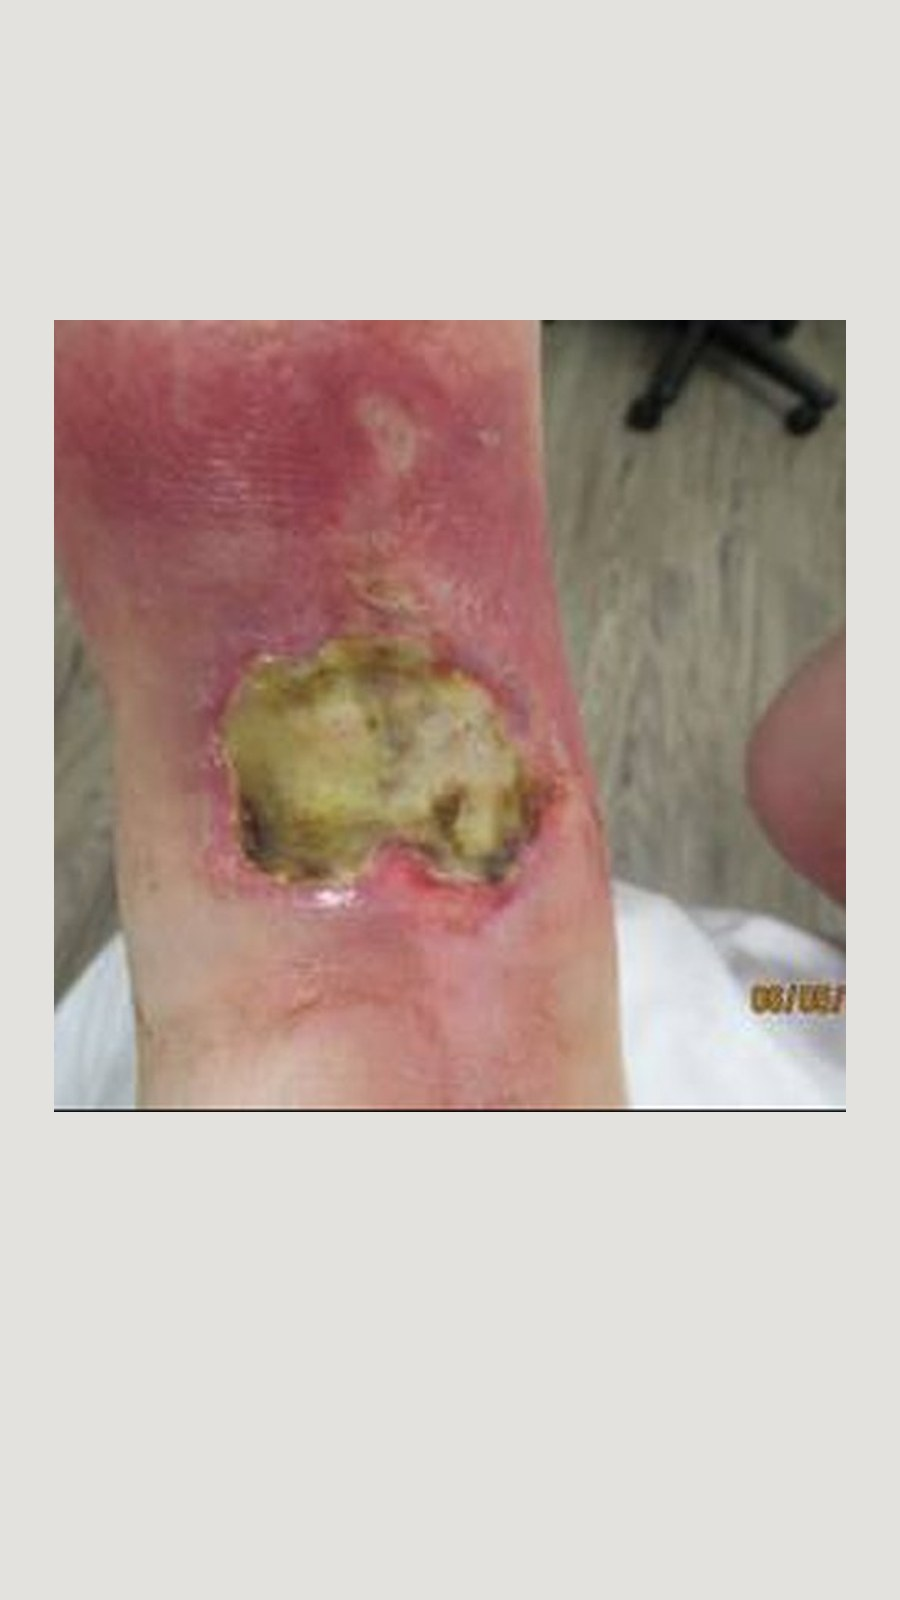
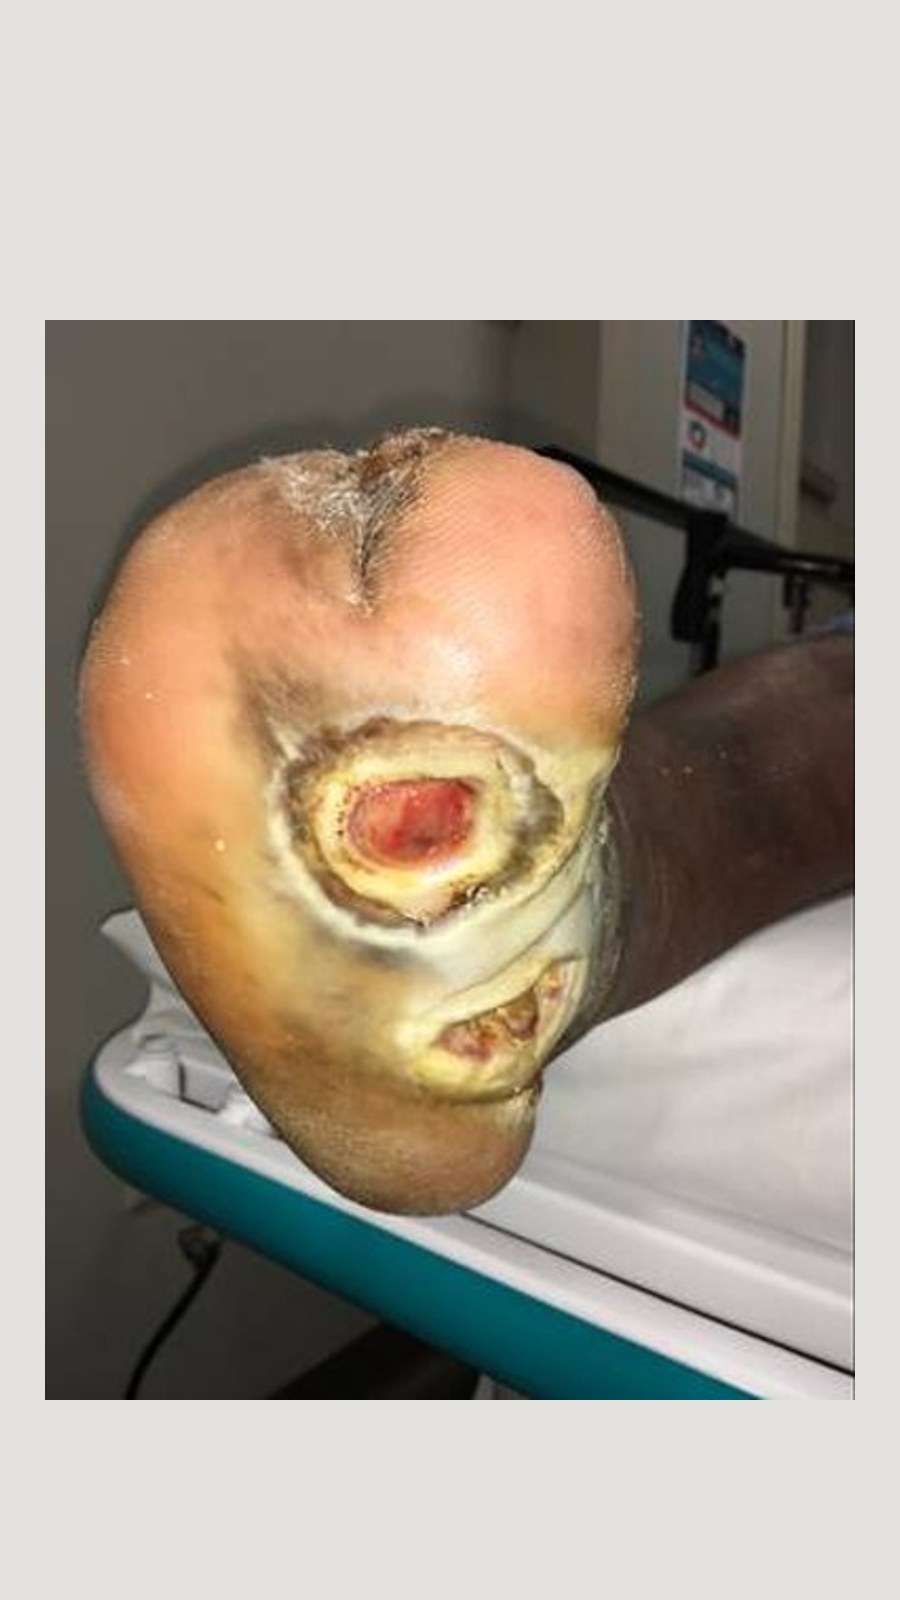
Fix the wrong-grade cause: stop discarding parts of a mottled wound
A clinician's own photograph of a wound with black eschar, slough and exposed
tendon was graded Wagner 1, mild, no infection. The classifier was right
about what it was shown: the segmenter had outlined one small pale patch of
it, because largestBlob() kept only the largest connected region. A mottled
ulcer is predicted as several disconnected pieces, and all but the biggest
were thrown away.

It now keeps the largest region plus any region at least a tenth of its size
whose centroid lies within 2.5 equivalent diameters. Measured on 185 FUSeg
validation images against expert masks, versus largest-only: mean Dice
0.8176 -> 0.8297, median 0.8832 -> 0.8951, recall 0.832 -> 0.856, precision
unchanged at 0.846. 20 images changed, 17 improved, 3 worsened; 2.55 Dice
gained against 0.29 lost, worst single regression -0.18, best gain +0.47 on
an image where the largest region alone scored zero. The asymmetry is
deliberate: under-segmenting and calling a wound mild is the dangerous error.

Rejected after measuring: a stricter tenth-within-1.5-diameters rule never
worsens an image but gains half as much, and lowering the threshold does
nothing - 0.5 to 0.3 trades precision for recall and leaves Dice flat.
The distance test still rejects speckle on a glove; an excluded region of
comparable size is now reported so the reader can redraw the area instead.

The demo samples were not what the caption claimed. Searching all 1,210
[…]

diff --git a/dfu/index.html b/dfu/index.html
@@ -85,6 +85,8 @@ main{max-width:600px;margin:0 auto;padding:16px 16px 60px}
 .tissuelegend span{display:flex;align-items:center;gap:6px;font-size:12.5px;color:var(--muted);font-variant-numeric:tabular-nums}
 .tissuelegend i{width:12px;height:12px;border-radius:3px;flex:none;border:1px solid rgba(0,0,0,.15)}
 .tissuelegend b{color:var(--text);font-weight:600}
+.sample span{overflow-wrap:anywhere}
+.sample span i{display:block;font-style:normal;font-family:var(--mono);font-size:9.5px;color:var(--teal-dim);margin-top:2px}
 .cropview{display:flex;gap:14px;align-items:flex-start;margin:12px 0;padding:12px;background:var(--cloud);border-radius:12px}
 .cropview canvas{width:104px;height:104px;flex:none;border-radius:8px;border:1px solid var(--line);background:#000;image-rendering:auto}
 .cropview b{display:block;font-size:12px;letter-spacing:.04em;text-transform:uppercase;color:var(--muted);margin-bottom:5px}
@@ -306,14 +308,13 @@ body.dark .verdict.ok{color:#7ee87e}body.dark .verdict.warn{color:#f5cd77}body.d
       </label>
     </div>
     <div class="samples">
-      <p>Or try a de-identified sample image (public FUSeg 2021 dataset, held out from training). D and E are A&nbsp;to&nbsp;C re-framed into camera and phone shapes, to show that nothing at the edge of the frame is now discarded:</p>
+      <p id="sampleNote"></p>
       <div class="sample-row">
-        <button class="sample" data-src="samples/mild_plantar_ulcer.jpg" data-name="Sample A"><img src="samples/mild_plantar_ulcer.jpg" alt="Sample A: small plantar ulcer"><span>A · small plantar ulcer</span></button>
-        <button class="sample" data-src="samples/severe_infected_ulcer.jpg" data-name="Sample B"><img src="samples/severe_infected_ulcer.jpg" alt="Sample B: sloughy ulcer with erythema"><span>B · sloughy, erythematous</span></button>
-        <button class="sample" data-src="samples/deep_heel_ulcer.jpg" data-name="Sample C"><img src="samples/deep_heel_ulcer.jpg" alt="Sample C: deep heel ulcer"><span>C · deep heel ulcer</span></button>
-        <button class="sample" data-src="samples/landscape_offcentre.jpg" data-name="Sample D (landscape)"><img src="samples/landscape_offcentre.jpg" alt="Sample D: the same heel ulcer in a 4:3 landscape frame, off to one side"><span>D · landscape, off-centre</span></button>
-        <button class="sample" data-src="samples/portrait_phone.jpg" data-name="Sample E (portrait)"><img src="samples/portrait_phone.jpg" alt="Sample E: the same sloughy ulcer in a 9:16 portrait phone frame"><span>E · portrait, phone shape</span></button>
-      </div>
+        <button class="sample" data-src="samples/small_leg_ulcer.jpg" data-name="Sample A"><img src="samples/small_leg_ulcer.jpg" alt="Sample A: a small ulcer on the lower leg"><span>A · small leg ulcer <i>Dice 0.77</i></span></button>
+        <button class="sample" data-src="samples/sloughy_heel_ulcer.jpg" data-name="Sample B"><img src="samples/sloughy_heel_ulcer.jpg" alt="Sample B: a heel cavity ringed with yellow slough"><span>B · sloughy heel cavity <i>Dice 0.70</i></span></button>
+        <button class="sample" data-src="samples/large_ankle_ulcer.jpg" data-name="Sample C"><img src="samples/large_ankle_ulcer.jpg" alt="Sample C: a large ulcer over the ankle with dark tissue"><span>C · large ankle ulcer <i>Dice 0.94</i></span></button>
+        <button class="sample" data-src="samples/landscape_offcentre.jpg" data-name="Sample D (landscape)"><img src="samples/landscape_offcentre.jpg" alt="Sample D: sample C placed off-centre in a 4:3 landscape frame"><span>D · landscape, off-centre</span></button>
+        <button class="sample" data-src="samples/portrait_phone.jpg" data-name="Sample E (portrait)"><img src="samples/portrait_phone.jpg" alt="Sample E: sample B in a 9:16 portrait phone frame"><span>E · portrait, phone shape</span></button>
     </div>
   </section>
 
@@ -818,34 +819,73 @@ async function segment(){
   return largestBlob(prob);
 }
 function largestBlob(prob, thresh = 0.5){
-  /* Threshold, then keep only the largest 4-connected region. Without this the mask picks up
-     speckle on drapes and gloves, and the bounding box then spans the whole photograph. */
+  /* Label the thresholded map, then keep the largest region PLUS any region at least a tenth of
+     its size whose centroid lies within 2.5 equivalent diameters of it.
+
+     Keeping only the largest was rejecting real wound. A mottled ulcer — black eschar beside
+     yellow slough beside pink granulation — is predicted as several disconnected pieces, and
+     discarding all but the biggest handed the classifier one fragment. That is how a wound with
+     visible eschar gets graded mild: the model answers correctly about the piece it was shown.
+
+     Measured on 185 FUSeg validation images with expert masks, against keeping the largest alone:
+     mean Dice 0.8176 -> 0.8297, median 0.8832 -> 0.8951, recall 0.832 -> 0.856 with precision
+     unchanged at 0.846. 20 images changed, 17 improved and 3 worsened; 2.55 Dice gained against
+     0.29 lost. The worst single regression is -0.18, the largest gain +0.47 on an image where the
+     largest component alone scored zero. The asymmetry is accepted deliberately: under-segmenting
+     a wound and calling it mild is the dangerous error, over-including a little peri-wound skin
+     is not.
+
+     Two alternatives were tested and rejected. A stricter tenth-of-size-within-1.5-diameters rule
+     never worsens an image but gains half as much. Lowering the threshold does nothing useful:
+     0.5 -> 0.3 trades precision for recall almost exactly and leaves Dice flat at 0.82.
+
+     The distance test is what still rejects speckle on a glove or a drape: a blob far from the
+     wound is not part of it, however large. Its area is reported so the interface can say that
+     something substantial was excluded. */
   const N = SEG, lab = new Int32Array(N * N), stack = [];
-  let comp = 0, best = 0, bestSize = 0;
-  for (let s = 0; s < N * N; s++){
-    if (prob[s] <= thresh || lab[s]) continue;
-    comp++; let size = 0; lab[s] = comp; stack.push(s);
+  const sizes = [0], sumX = [0], sumY = [0];
+  let comp = 0;
+  for (let s0 = 0; s0 < N * N; s0++){
+    if (prob[s0] <= thresh || lab[s0]) continue;
+    comp++; let size = 0, sx = 0, sy = 0;
+    lab[s0] = comp; stack.push(s0);
     while (stack.length){
       const q = stack.pop(); size++;
-      const x = q % N, y = (q - x) / N;
+      const x = q % N, y = (q - x) / N; sx += x; sy += y;
       if (x > 0     && prob[q-1] > thresh && !lab[q-1]){ lab[q-1] = comp; stack.push(q-1); }
       if (x < N - 1 && prob[q+1] > thresh && !lab[q+1]){ lab[q+1] = comp; stack.push(q+1); }
       if (y > 0     && prob[q-N] > thresh && !lab[q-N]){ lab[q-N] = comp; stack.push(q-N); }
       if (y < N - 1 && prob[q+N] > thresh && !lab[q+N]){ lab[q+N] = comp; stack.push(q+N); }
     }
-    if (size > bestSize){ bestSize = size; best = comp; }
+    sizes.push(size); sumX.push(sx); sumY.push(sy);
   }
-  if (!bestSize) return { found: false, areaFrac: 0, conf: 0 };
+  if (!comp) return { found: false, areaFrac: 0, conf: 0 };
+
+  let big = 1;
+  for (let i = 2; i <= comp; i++) if (sizes[i] > sizes[big]) big = i;
+  const cxB = sumX[big] / sizes[big], cyB = sumY[big] / sizes[big];
+  const reach = 2.5 * 2 * Math.sqrt(sizes[big] / Math.PI);
+  const keep = new Uint8Array(comp + 1); keep[big] = 1;
+  let droppedFar = 0, droppedFarCount = 0;
+  for (let i = 1; i <= comp; i++){
+    if (i === big || sizes[i] < 0.10 * sizes[big]) continue;
+    const d = Math.hypot(sumX[i]/sizes[i] - cxB, sumY[i]/sizes[i] - cyB);
+    if (d <= reach) keep[i] = 1; else { droppedFar += sizes[i]; droppedFarCount++; }
+  }
+
   const mask = new Uint8Array(N * N);
-  let x0 = N, y0 = N, x1 = -1, y1 = -1, psum = 0;
-  for (let i = 0; i < N * N; i++) if (lab[i] === best){
-    mask[i] = 1; psum += prob[i];
+  let x0 = N, y0 = N, x1 = -1, y1 = -1, psum = 0, kept = 0;
+  for (let i = 0; i < N * N; i++) if (lab[i] && keep[lab[i]]){
+    mask[i] = 1; psum += prob[i]; kept++;
     const x = i % N, y = (i - x) / N;
     if (x < x0) x0 = x; if (x > x1) x1 = x; if (y < y0) y0 = y; if (y > y1) y1 = y;
   }
-  return { found: true, mask, sizePx: bestSize, areaFrac: bestSize / (N * N), conf: psum / bestSize,
-           bbox: [x0, y0, x1 + 1, y1 + 1], diamPx: Math.max(x1 - x0 + 1, y1 - y0 + 1) };
+  return { found: true, mask, sizePx: kept, areaFrac: kept / (N * N), conf: psum / kept,
+           bbox: [x0, y0, x1 + 1, y1 + 1], diamPx: Math.max(x1 - x0 + 1, y1 - y0 + 1),
+           parts: keep.reduce((n, v) => n + v, 0), components: comp,
+           droppedFar, droppedFarCount };
 }
+
 function roiBox(seg){
   /* Wound bounding box, squared off and expanded by ROI_MARGIN on each side, in viewer coordinates. */
   const k = VIEW / SEG, [x0, y0, x1, y1] = seg.bbox.map(v => v * k);
@@ -923,6 +963,8 @@ function showWound(seg){
     ? 'Area and longest dimension are in centimetres using the ruler scale you set on this photograph, and confidence is the segmentation model’s mean probability across the outlined pixels.'
     : 'Area is a percentage of the photograph until you set a ruler scale, so it is comparable only between images shot at the same distance; confidence is the model’s mean probability across the outlined pixels.';
   $('whatMeasure').textContent = `The model outlined this ulcer at ${(seg.conf*100).toFixed(0)} % mean confidence, and on 190 held-out images outlines like it reached a mean Dice of 0.85 against expert masks — good enough to crop and measure from, not good enough to accept without looking.`
+    + (seg.parts > 1 ? ` The outline is made of ${seg.parts} regions joined together, which is normal for a mottled wound where eschar, slough and granulation are predicted separately.` : '')
+    + (seg.droppedFar ? ` A further ${seg.droppedFarCount === 1 ? 'region' : `${seg.droppedFarCount} regions`} of comparable size were found elsewhere in the photograph and excluded as too distant to belong to this wound. If they are part of it, draw the area yourself — otherwise the classifier is judging only the outlined part.` : '')
     + (lastBox && lastBox.marginTruncated ? ' This wound fills so much of the photograph that the classifier could not be given its usual margin of surrounding skin, so read the classification below with more caution than the figures above and re-shoot from further back if you can.' : '');
 }
 
@@ -1258,6 +1300,9 @@ function setDisease(d){
   $('npiapPanel').classList.toggle('hidden', !pi);
   $('gtDfu').classList.toggle('hidden', pi);
   $('gtPi').classList.toggle('hidden', !pi);
+  $('sampleNote').innerHTML = pi
+    ? 'There is <b>no pressure injury sample here</b>. The samples below are diabetic foot ulcers, and a foot ulcer is not a sacral sore &mdash; do not read anything about pressure injuries from them. A demonstration image needs a documented source and licence, which clinical photographs taken off a web search do not have. Load your own de-identified image instead, with any identifier strip cropped out first.'
+    : 'Samples A to C are images 0068, 0046 and 0729 of the FUSeg 2021 <b>validation</b> split, so the models were never trained on them. Each carries an expert-drawn mask, and the Dice shown is how closely this model\u2019s outline matches that mask on that image &mdash; 0.70 is included deliberately, because a demo that only shows its best cases is an advertisement. D and E are C and B re-framed into camera and phone shapes, to show that nothing at the edge of the frame is discarded.';
   $('truthIntro').textContent = pi
     ? 'Record the stage you assigned, the blanching test and the deepest structure you could see or palpate. Outcome at follow-up is the reference standard here, not a swab.'
     : "Record the clinician's classification and the tissue culture & sensitivity result. Logged cases become the labelled dataset for the next training cycle.";
